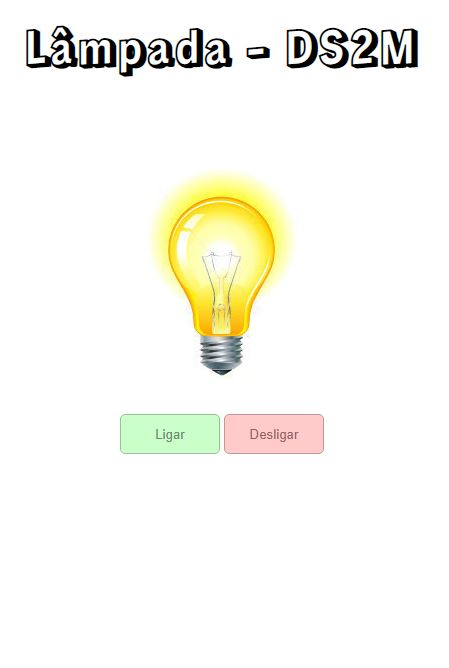
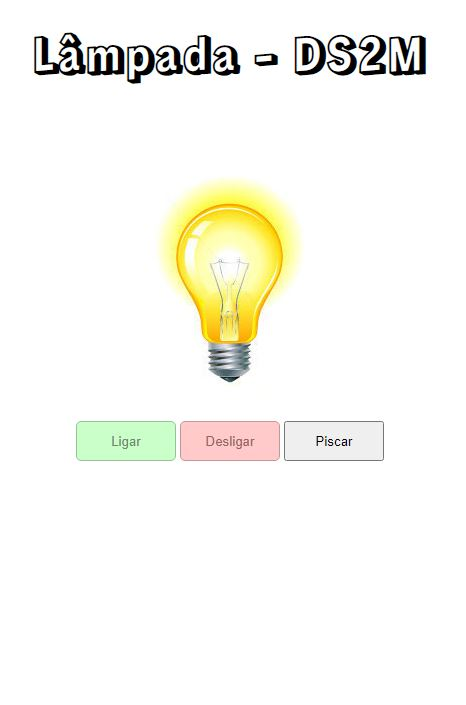
Adicionando informações no README

Changed region(s): [[0.0312, 0.0299, 0.9354, 0.1198], [0.343, 0.2695, 0.6548, 0.5689], [0.1559, 0.5988, 0.7795, 0.6886]]

diff --git a/README.md b/README.md
@@ -7,7 +7,9 @@ O projeto consiste em criar uma lâmpada com três ações:
 
 * Desligar;
 
-* Quebrar.
+* Quebrar;
+
+* Piscar.
 
 Todo o código foi construído seguindo boas práticas, como responsabilidade única e funções puras.
 
